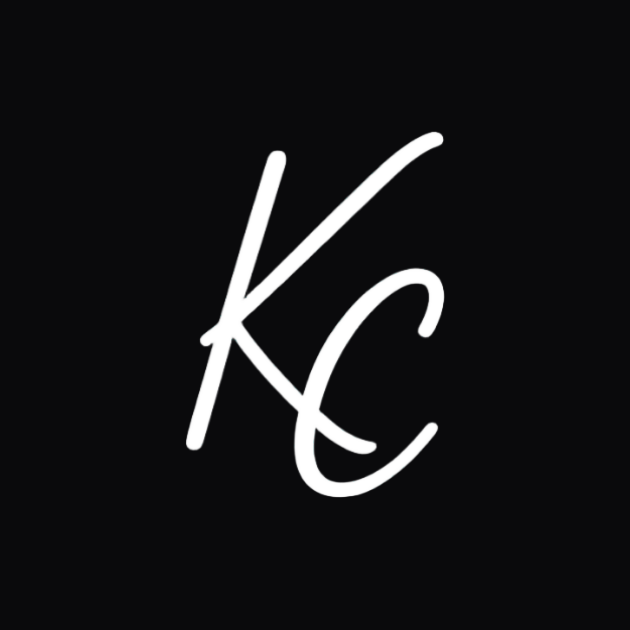
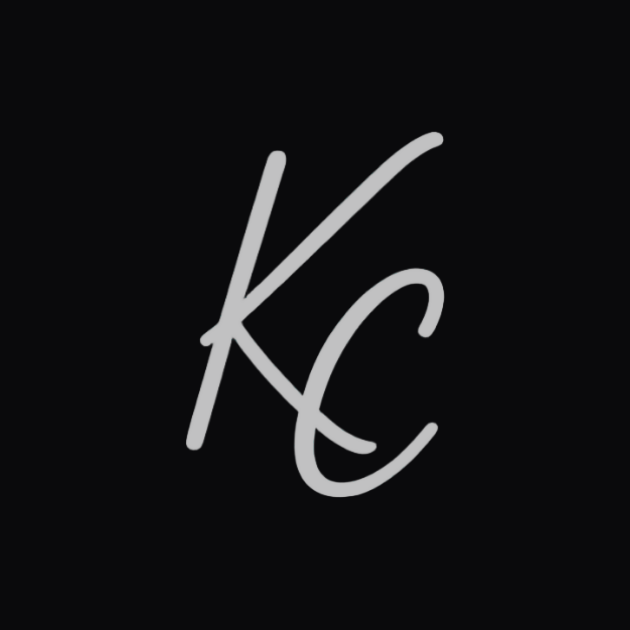
Vercel Analytics, sitemap, robots.txt ve JSON-LD Person verisi ekle
- @vercel/analytics/nuxt modülü ile analytics entegrasyonu
- @nuxtjs/sitemap ile otomatik sitemap.xml (blog yazıları dahil)
- robots.txt eklendi
- app.vue'ye canonical URL, og:url ve JSON-LD Person structured data eklendi
- OG görseli WhatsApp önizlemesine uygun soluk beyaz logo olarak güncellendi
- LinkedIn linki güncellendi

Changed region(s): [[0.2714, 0.2111, 0.7238, 0.8143]]

diff --git a/app/app.vue b/app/app.vue
@@ -1,15 +1,36 @@
 <script setup lang="ts">
+const route = useRoute()
 const requestUrl = useRequestURL()
 const ogImage = `${requestUrl.origin}/og-image.png`
+const canonicalUrl = computed(() => `${requestUrl.origin}${route.path}`)
+
+const { data: socials } = await useAsyncData('person-socials', () => queryCollection('socials').all())
 
 useHead({
   title: 'Kübra ÇETİNKAYA',
   htmlAttrs: {
     lang: 'tr',
   },
+  link: [
+    { rel: 'canonical', href: canonicalUrl },
+  ],
+  script: [
+    {
+      type: 'application/ld+json',
+      innerHTML: JSON.stringify({
+        '@context': 'https://schema.org',
+        '@type': 'Person',
+        name: 'Kübra Çetinkaya',
+        url: requestUrl.origin,
+        jobTitle: 'Web & Mobil Geliştirici',
+        sameAs: (socials.value ?? []).map(social => social.url),
+      }),
+    },
+  ],
 })
 
 useSeoMeta({
+  ogUrl: canonicalUrl,
   ogTitle: 'Kübra Çetinkaya',
   twitterTitle: 'Kübra Çetinkaya',
   description: 'Web & mobil geliştirici',

diff --git a/nuxt.config.ts b/nuxt.config.ts
@@ -2,6 +2,12 @@
 export default defineNuxtConfig({
   compatibilityDate: '2025-07-15',
   devtools: { enabled: true },
-  modules: ['@nuxt/ui', '@nuxt/content'],
+  modules: ['@nuxt/ui', '@nuxt/content', '@vercel/analytics/nuxt', '@nuxtjs/sitemap'],
   css: ['~/assets/css/main.css'],
+  site: {
+    url: 'https://kubrainy.me',
+  },
+  sitemap: {
+    sources: ['/api/__sitemap__/urls'],
+  },
 })

diff --git a/server/api/__sitemap__/urls.ts b/server/api/__sitemap__/urls.ts
@@ -1,0 +1,7 @@
+export default defineSitemapEventHandler(async (event) => {
+  const posts = await queryCollection(event, 'blog').all()
+
+  return posts.map(post => ({
+    loc: post.path,
+  }))
+})
